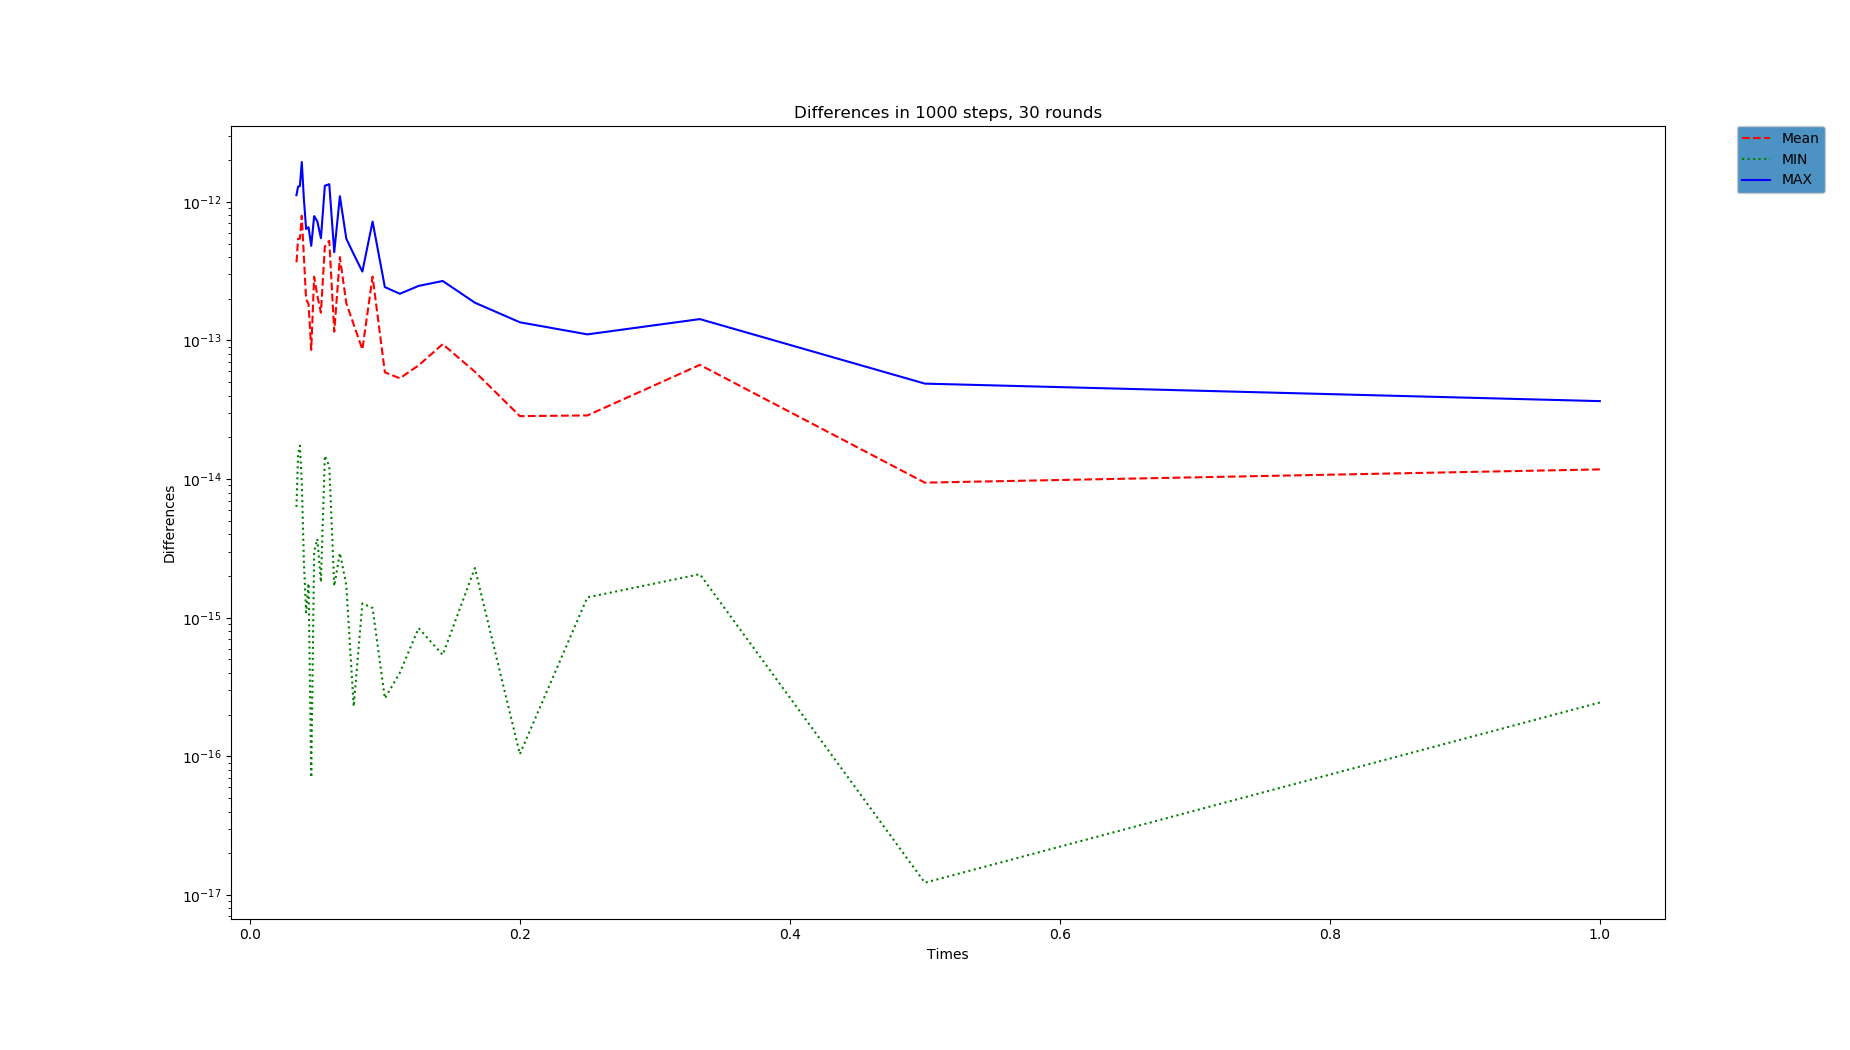
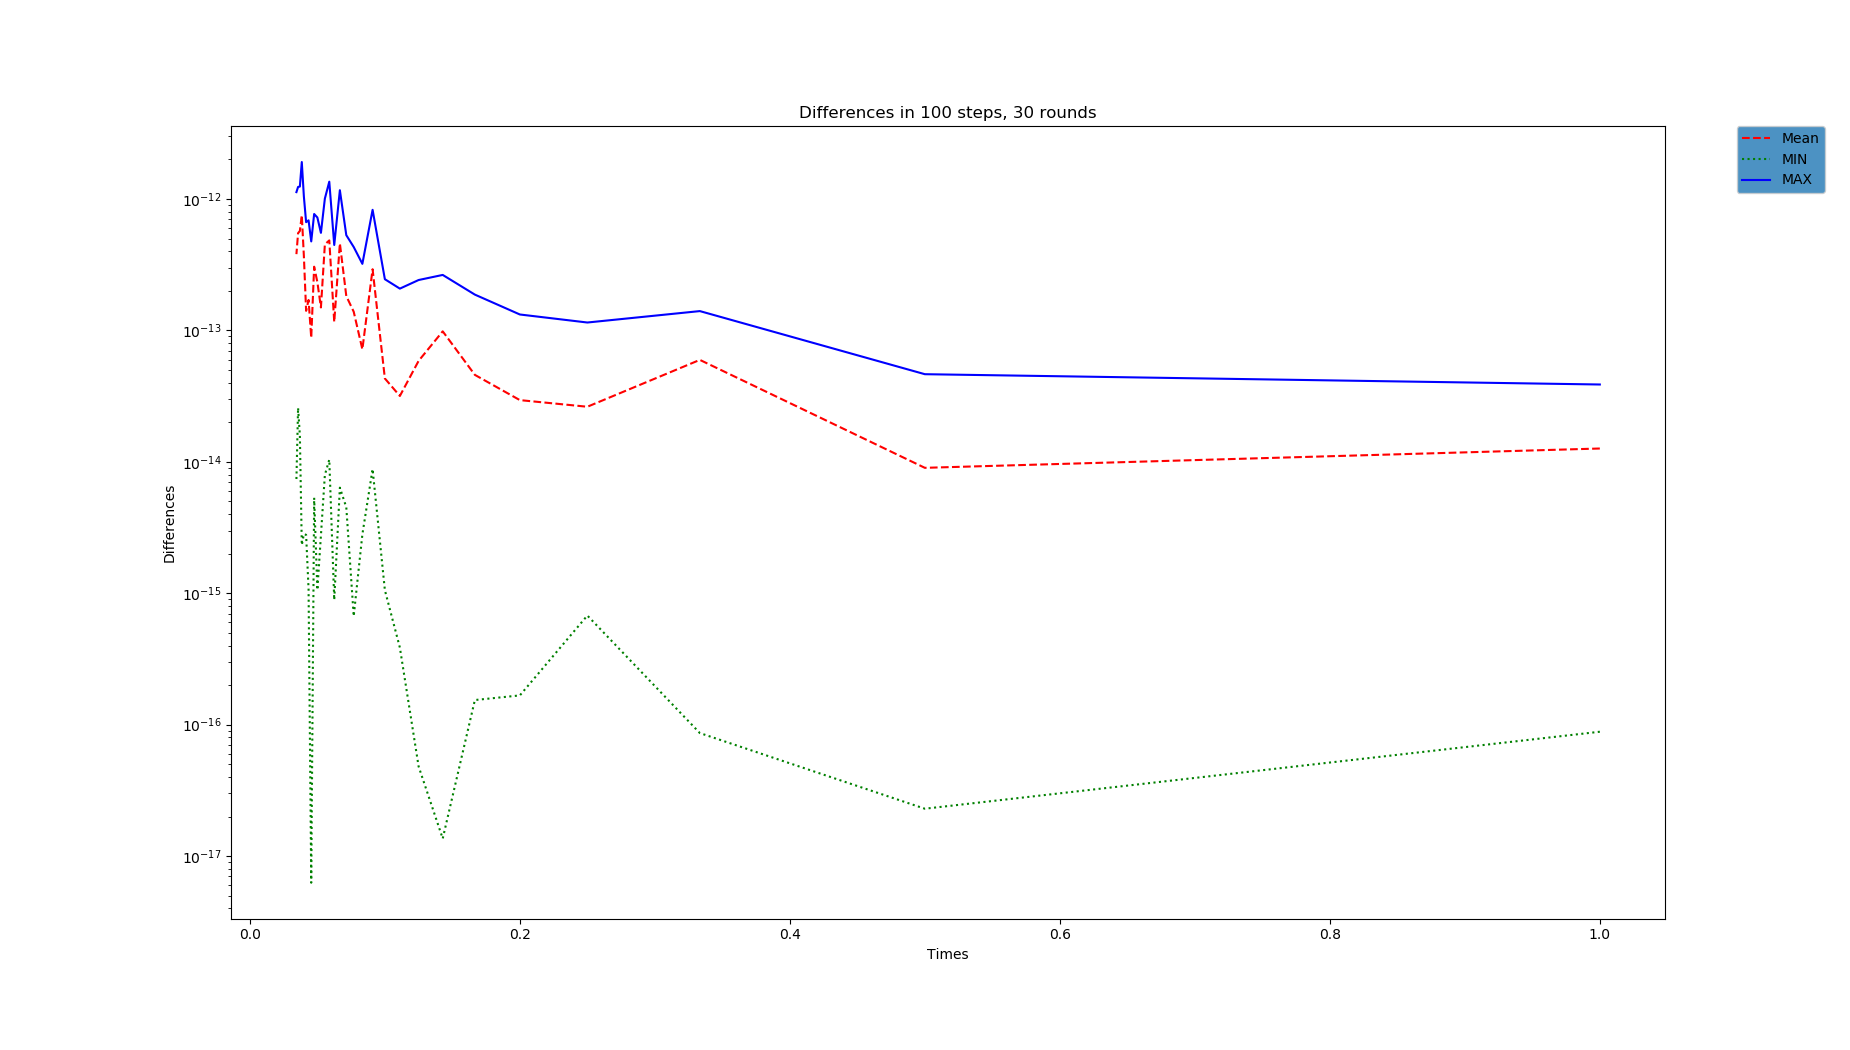
cmparision between DCM and Quaternion

diff --git a/Quaternion_test.py b/Quaternion_test.py
@@ -53,49 +53,49 @@ print(E.norm())
 print("-------test on conjugate-------")
 E = Quaternion(1.0, 2.0, 3.0, 4.0)
 print(E.conj())
-print("-------test on rotation pricision------")
-X1 = []
-X2 = []
-MEANDIFF = []
-MINDIFF = []
-MAXDIFF = []
-for N in range (1,30):
-    meandiff = 0.0
-    maxdiff = 0.0
-    mindiff = 1e9
-    for r in range(0,100):
-        y = random.random()
-        p = Quaternion(0.0, 0.0, y, 0.0)
-        p_zero = Quaternion(0.0, 0.0, y, 0.0)
-        steps= 180 * N
-        for i in range(0, steps):
-            p = p.rotator(np.pi / steps,[1.0, 0.0, 0.0])
-        for i in range(0, steps):
-            p = p.rotator(np.pi / steps,[0.0, 1.0, 0.0])
-        for i in range(0, steps):
-            p = p.rotator(np.pi / steps,[0.0, 0.0, 1.0])               
-        x = (p_zero - p).norm()
-        meandiff += x
-        mindiff = min(mindiff, x)
-        maxdiff = max(maxdiff, x)
-    X1.append(1.0 / N)
-    X2.append(N)
-    MEANDIFF.append(meandiff / 100) # remember to change according to different times
-    MINDIFF.append(mindiff)
-    MAXDIFF.append(maxdiff)
-
-fig, ax = plt.subplots()
-ax.semilogy(X1, MEANDIFF, 'k--', label='Mean', color = 'red')
-ax.semilogy(X1, MINDIFF, 'k:', label='MIN', color = 'green')
-ax.semilogy(X1, MAXDIFF, 'k', label='MAX', color = 'blue')
-ax.set_xlabel("Times")
-ax.set_ylabel("Differences")
-ax.set_title("Differences in 1000 steps, 30 rounds")
-legend = ax.legend(loc=2, bbox_to_anchor=(1.05,1.0),borderaxespad = 0.)
-legend.get_frame().set_facecolor('C0')
-plt.show()
-fig.set_size_inches(18.5, 10.5)
-fig.savefig('test_Quaternion_100.png', dpi=100)
+#print("-------test on rotation precision------")
+#X1 = []
+#X2 = []
+#MEANDIFF = []
+#MINDIFF = []
+#MAXDIFF = []
+#for N in range (1,30):
+#    meandiff = 0.0
+#    maxdiff = 0.0
+#    mindiff = 1e9
+#    for r in range(0,100):
+#        y = random.random()
+#        p = Quaternion(0.0, 0.0, y, 0.0)
+#        p_zero = Quaternion(0.0, 0.0, y, 0.0)
+#        steps= 180 * N
+#        for i in range(0, steps):
+#            p = p.rotator(np.pi / steps,[1.0, 0.0, 0.0])
+#        for i in range(0, steps):
+#            p = p.rotator(np.pi / steps,[0.0, 1.0, 0.0])
+#        for i in range(0, steps):
+#            p = p.rotator(np.pi / steps,[0.0, 0.0, 1.0])               
+#        x = (p_zero - p).norm()
+#        meandiff += x
+#        mindiff = min(mindiff, x)
+#        maxdiff = max(maxdiff, x)
+#    X1.append(1.0 / N)
+#    X2.append(N)
+#    MEANDIFF.append(meandiff / 100) # remember to change according to different times
+#    MINDIFF.append(mindiff)
+#    MAXDIFF.append(maxdiff)
+#
+#fig, ax = plt.subplots()
+#ax.semilogy(X1, MEANDIFF, 'k--', label='Mean', color = 'red')
+#ax.semilogy(X1, MINDIFF, 'k:', label='MIN', color = 'green')
+#ax.semilogy(X1, MAXDIFF, 'k', label='MAX', color = 'blue')
+#ax.set_xlabel("Times")
+#ax.set_ylabel("Differences")
+#ax.set_title("Differences in 100 steps, 30 rounds")
+#legend = ax.legend(loc=2, bbox_to_anchor=(1.05,1.0),borderaxespad = 0.)
+#legend.get_frame().set_facecolor('C0')
+#plt.show()
+#fig.set_size_inches(18.5, 10.5)
+#fig.savefig('test_Quaternion_100.png', dpi=100)
 print("-------test on toDCM-------")
 E = Quaternion(0.0, 1.0, 1.0, 1.0)
 D = E.toDCM()
@@ -135,7 +135,7 @@ def DCMtoQuaternion(aListOfLists):
         qy = (aListOfLists[2][1] + aListOfLists[1][2]) / (4 * q0z)
         return Quaternion(qs, qx, qy, q0z)
 print(DCMtoQuaternion(D))
-print("-------test on DCM rotation-------")
+#print("-------test on DCM rotation-------")
 def computeDCM(theta, vectors):
     '''
     compute standard DCM, a list of lists, 3*3 matrix
@@ -160,41 +160,41 @@ def computeDCM(theta, vectors):
     DCM[2][1] = f2 * f3 * (1 - cosTheta) - f1 * sinTheta
     DCM[2][2] = cosTheta + pow(f3, 2) * (1 - cosTheta)
     return DCM
-
-X1 = []
-X2 = []
-MEANDIFF = []
-MINDIFF = []
-MAXDIFF = []
-for N in range (1,30):
-    meandiff = 0.0
-    maxdiff = 0.0
-    mindiff = 1e9
-    for r in range(0, 1000):
-        x = random.random()
-        y = random.random()
-        z = random.random()
-        v = [x, y, z]
-        v_zero = [x, y, z]
-        steps= 180 * N
-        m1 = computeDCM(np.pi/ steps, [1, 0, 0])
-        m2 = computeDCM(np.pi/ steps, [0, 1, 0])
-        m3 = computeDCM(np.pi/ steps, [0, 0, 1])
-        for i in range(0, steps):
-            v = np.dot(m1, v)
-        for j in range(0, steps):
-            v = np.dot(m2, v)
-        for k in range(0, steps):
-            v = np.dot(m3, v)              
-        x = math.sqrt(pow(v[0] - v_zero[0], 2) + pow(v[1] - v_zero[1], 2) + pow(v[2] - v_zero[2], 2))
-        meandiff += x
-        mindiff = min(mindiff, x)
-        maxdiff = max(maxdiff, x)
-    X1.append(1.0 / N)
-    X2.append(N)
-    MEANDIFF.append(meandiff / 1000) # remember to change according to different times
-    MINDIFF.append(mindiff)
-    MAXDIFF.append(maxdiff)
+#
+#X1 = []
+#X2 = []
+#MEANDIFF = []
+#MINDIFF = []
+#MAXDIFF = []
+#for N in range (1,30):
+#    meandiff = 0.0
+#    maxdiff = 0.0
+#    mindiff = 1e9
+#    for r in range(0, 1000):
+#        x = random.random()
+#        y = random.random()
+#        z = random.random()
+#        v = [x, y, z]
+#        v_zero = [x, y, z]
+#        steps= 180 * N
+#        m1 = computeDCM(np.pi/ steps, [1, 0, 0])
+#        m2 = computeDCM(np.pi/ steps, [0, 1, 0])
+#        m3 = computeDCM(np.pi/ steps, [0, 0, 1])
+#        for i in range(0, steps):
+#            v = np.dot(m1, v)
+#        for j in range(0, steps):
+#            v = np.dot(m2, v)
+#        for k in range(0, steps):
+#            v = np.dot(m3, v)              
+#        x = math.sqrt(pow(v[0] - v_zero[0], 2) + pow(v[1] - v_zero[1], 2) + pow(v[2] - v_zero[2], 2))
+#        meandiff += x
+#        mindiff = min(mindiff, x)
+#        maxdiff = max(maxdiff, x)
+#    X1.append(1.0 / N)
+#    X2.append(N)
+#    MEANDIFF.append(meandiff / 1000) # remember to change according to different times
+#    MINDIFF.append(mindiff)
+#    MAXDIFF.append(maxdiff)
 
 fig, ax = plt.subplots()
 ax.semilogy(X1, MEANDIFF, 'k--', label='Mean', color = 'red')
@@ -203,13 +203,79 @@ ax.semilogy(X1, MAXDIFF, 'k', label='MAX', color = 'blue')
 ax.set_xlabel("Times")
 ax.set_ylabel("Differences")
 ax.set_title("Differences in 1000 steps, 30 rounds")
-legend = ax.legend(loc=2, bbox_to_anchor=(1.05,1.0),borderaxespad = 0.)
+legend = ax.legend(loc = 2, bbox_to_anchor = (1.05, 1.0), borderaxespad = 0.)
 legend.get_frame().set_facecolor('C0')
 plt.show()
 fig.set_size_inches(18.5, 10.5)
-fig.savefig('test_DCM_1000.png', dpi=100)
+fig.savefig('test_DCM_1000.png', dpi = 100)
 
+print("-------compare output differences in Quaternion and DCM-------")
+# initialize some list to store data
+X1 = []
+X2 = []
+MEANDIFF_Q = []
+MINDIFF_Q = []
+MAXDIFF_Q = []
+MEANDIFF_DCM = []
+MINDIFF_DCM = []
+MAXDIFF_DCM = []
 
+for N in range (1,30):
+    meandiff_Q = 0.0
+    maxdiff_Q = 0.0
+    mindiff_Q = 1e9
+    meandiff_DCM = 0.0
+    maxdiff_DCM = 0.0
+    mindiff_DCM = 1e9
+    for r in range(0,1000):
+        x = random.random()
+        y = random.random()
+        z = random.random()
+        p = Quaternion(0.0, x, y, z)
+        p_zero = Quaternion(0.0, x, y, z)
+        v = [x, y, z]
+        v_zero = [x, y, z]
+        steps= 180 * N
+        m1 = computeDCM(np.pi/ steps, [1, 0, 0])
+        m2 = computeDCM(np.pi/ steps, [0, 1, 0])
+        m3 = computeDCM(np.pi/ steps, [0, 0, 1])       
+        for i in range(0, steps):
+            p = p.rotator(np.pi / steps,[1.0, 0.0, 0.0])
+            v = np.dot(m1, v)
+        for i in range(0, steps):
+            p = p.rotator(np.pi / steps,[0.0, 1.0, 0.0])
+            v = np.dot(m2, v)
+        for i in range(0, steps):
+            p = p.rotator(np.pi / steps,[0.0, 0.0, 1.0])
+            v = np.dot(m3, v)               
+        x_Q = (p_zero - p).norm()
+        meandiff_Q += x_Q
+        mindiff_Q = min(mindiff_Q, x_Q)
+        maxdiff_Q = max(maxdiff_Q, x_Q)
+        x_DCM = math.sqrt(pow(v[0] - v_zero[0], 2) + pow(v[1] - v_zero[1], 2) + pow(v[2] - v_zero[2], 2))
+        meandiff_DCM += x_DCM
+        mindiff_DCM = min(mindiff_DCM, x_DCM)
+        maxdiff_DCM = max(maxdiff_DCM, x_DCM)
+    X1.append(1.0 / N)
+    X2.append(N)
+    MEANDIFF_Q.append(meandiff_Q / 1000)
+    MINDIFF_Q.append(mindiff_Q)
+    MAXDIFF_Q.append(maxdiff_Q)
+    MEANDIFF_DCM.append(meandiff_DCM / 1000)
+    MINDIFF_DCM.append(mindiff_DCM)
+    MAXDIFF_DCM.append(maxdiff_DCM)
+    
+fig, ax = plt.subplots()
+ax.semilogy(X1, MEANDIFF_Q, 'k--', label='Mean_Quaternion', color = 'red')
+ax.semilogy(X1, MEANDIFF_DCM, 'k--', label='Mean_DCM', color = 'green')
+ax.set_xlabel("Times")
+ax.set_ylabel("Differences")
+ax.set_title("Differences between DCM and Quaternion in 1000 steps, 30 rounds")
+legend = ax.legend(loc = 2, bbox_to_anchor = (1.05, 1.0), borderaxespad = 0.)
+legend.get_frame().set_facecolor('C0')
+plt.show()
+fig.set_size_inches(18.5, 10.5)
+fig.savefig('test_DCM_Quaternion_1000.png', dpi = 100)
 
 
 
